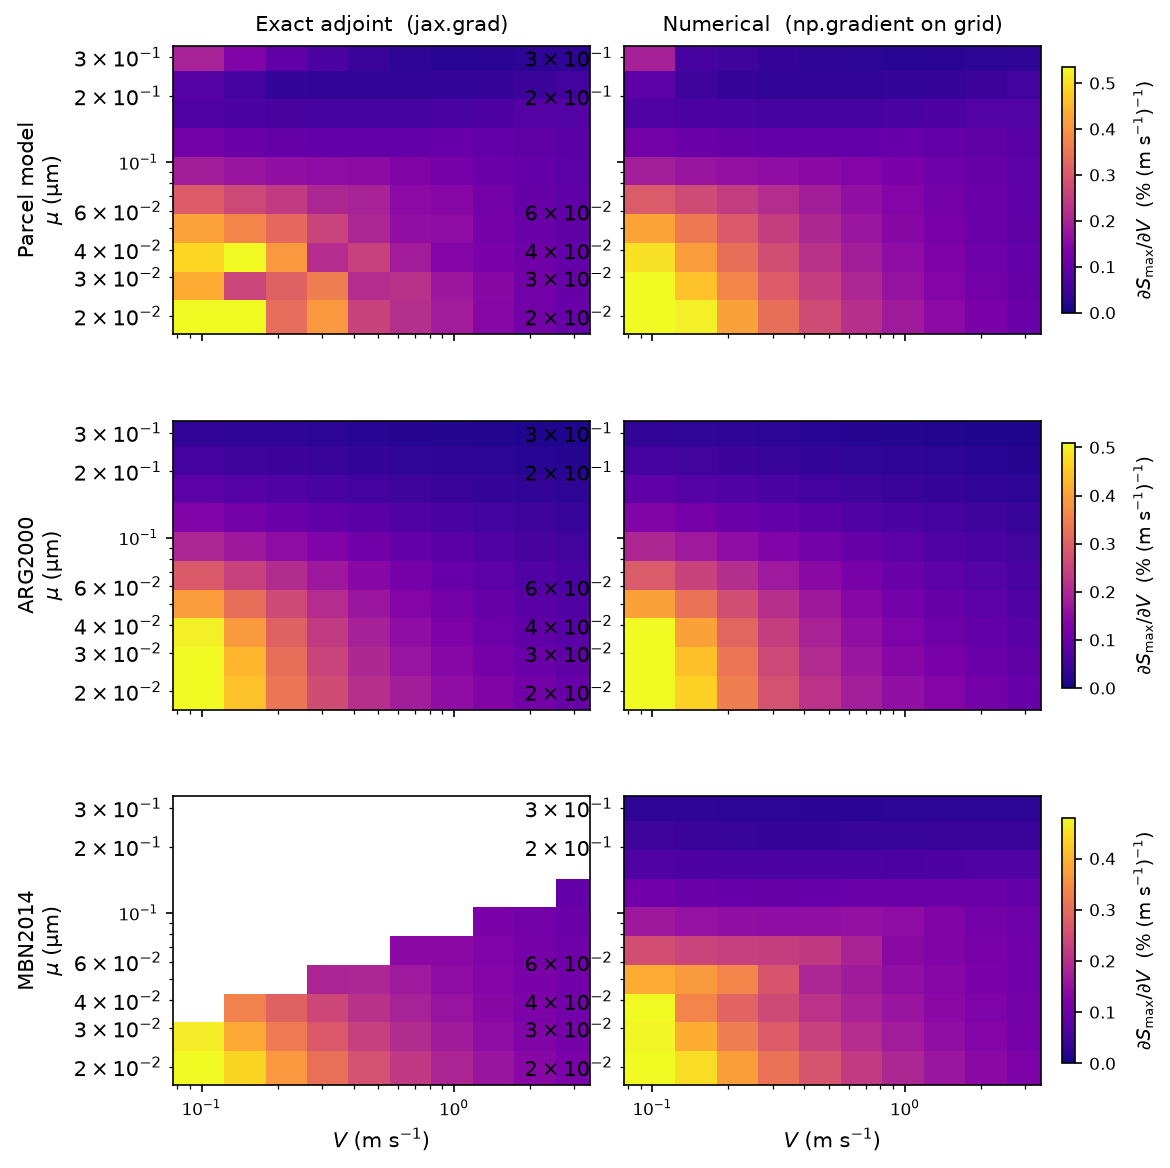
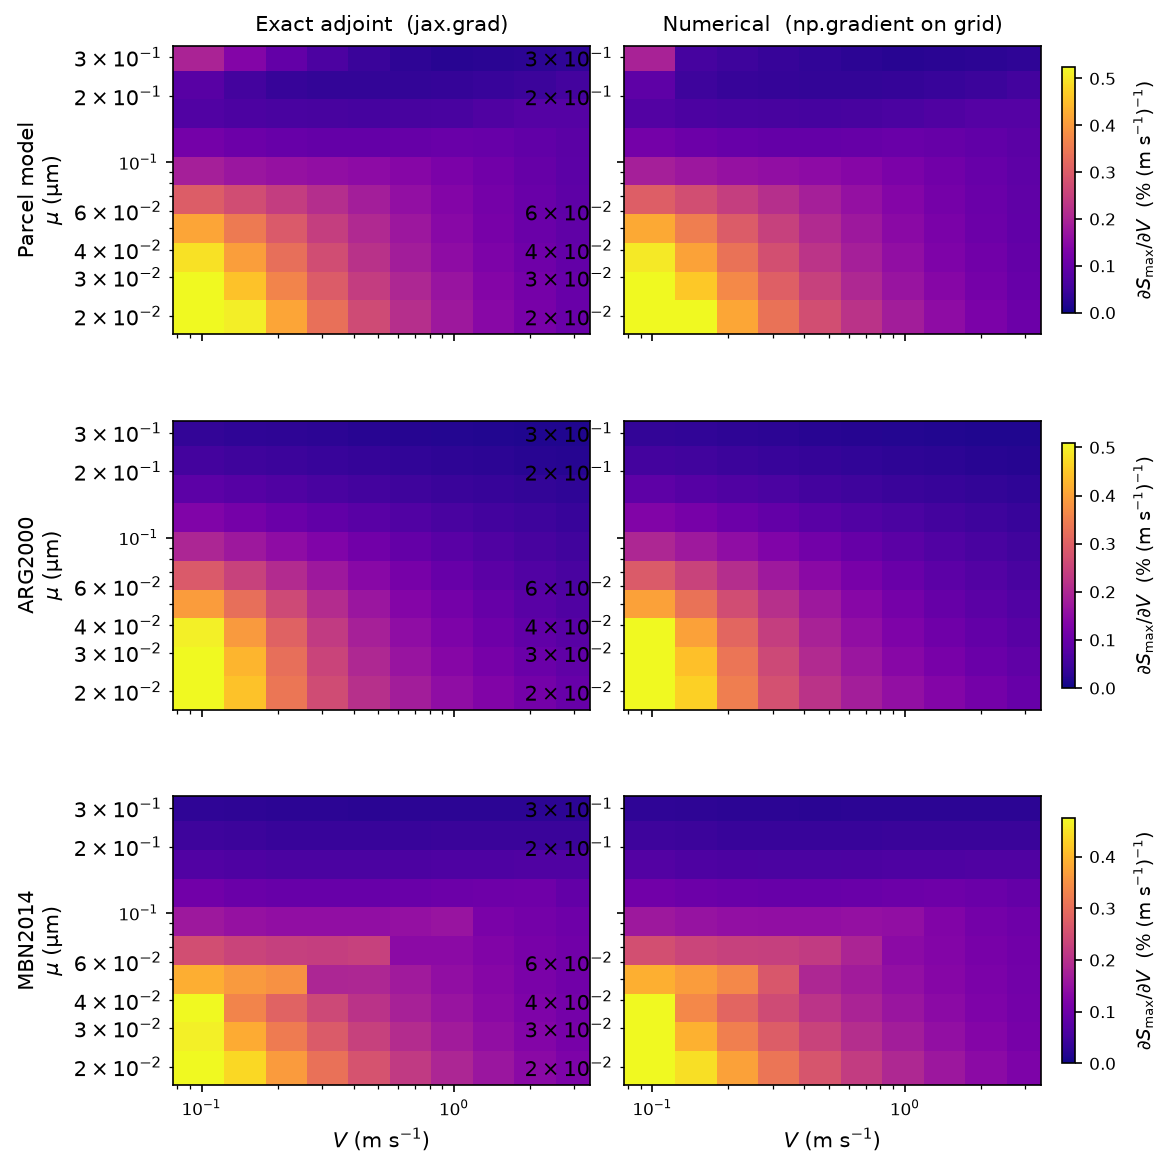
fix(mbn2014): use jnp.where guard for sqrt to prevent NaN adjoint
jnp.sqrt(jnp.maximum(delta, 0.0)) produces NaN gradients when delta < 0
because the backward pass evaluates d/dx sqrt(max(x,0)) = (1/2sqrt(0)) * 0
= inf * 0 = NaN.  This affected all 55 grid cells where the "critical"
population-splitting branch is active (zeta_c >= smax), producing a
staircase of blank cells in the MBN2014 exact-adjoint panel.

Replace with the standard JAX safe-sqrt pattern:
  safe_delta = jnp.where(critical, ones, delta)
  sqrt_delta = jnp.where(critical, zeros, jnp.sqrt(safe_delta))

sqrt is now always evaluated at a positive dummy value (1.0) in the
critical branch, so its gradient is finite; the outer jnp.where discards
the result. Forward values are unchanged; 0 NaN cells remain.

diff --git a/pyrcel/activation/_mbn2014.py b/pyrcel/activation/_mbn2014.py
@@ -139,9 +139,11 @@ def _sintegral_jax(
     ratio_c = (1.0 / sqrtwo) + (2e7 / 3.0) * A * (smax**-0.3824 - zeta_c**-0.3824)
     ssplt2_c = smax * jnp.minimum(ratio_c, 1.0)
 
-    # Non-critical branch: roots of the quartic, eq. (B10)
-    safe_delta = jnp.maximum(delta, 0.0)
-    sqrt_delta = jnp.sqrt(safe_delta)
+    # Non-critical branch: roots of the quartic, eq. (B10).
+    # Guard sqrt with jnp.where (not jnp.maximum) so the backward pass never
+    # evaluates d/dx sqrt(x) at x=0, which gives 0*inf=NaN via jnp.maximum.
+    safe_delta = jnp.where(critical, jnp.ones_like(delta), delta)
+    sqrt_delta = jnp.where(critical, jnp.zeros_like(delta), jnp.sqrt(safe_delta))
     ssplt2_nc = jnp.sqrt(0.5 * (1.0 + sqrt_delta)) * smax
     # ssplt1 could be 0 when delta → 0; guard the log below
     safe_ssplt1_sq = jnp.maximum(0.5 * (1.0 - sqrt_delta), 0.0)